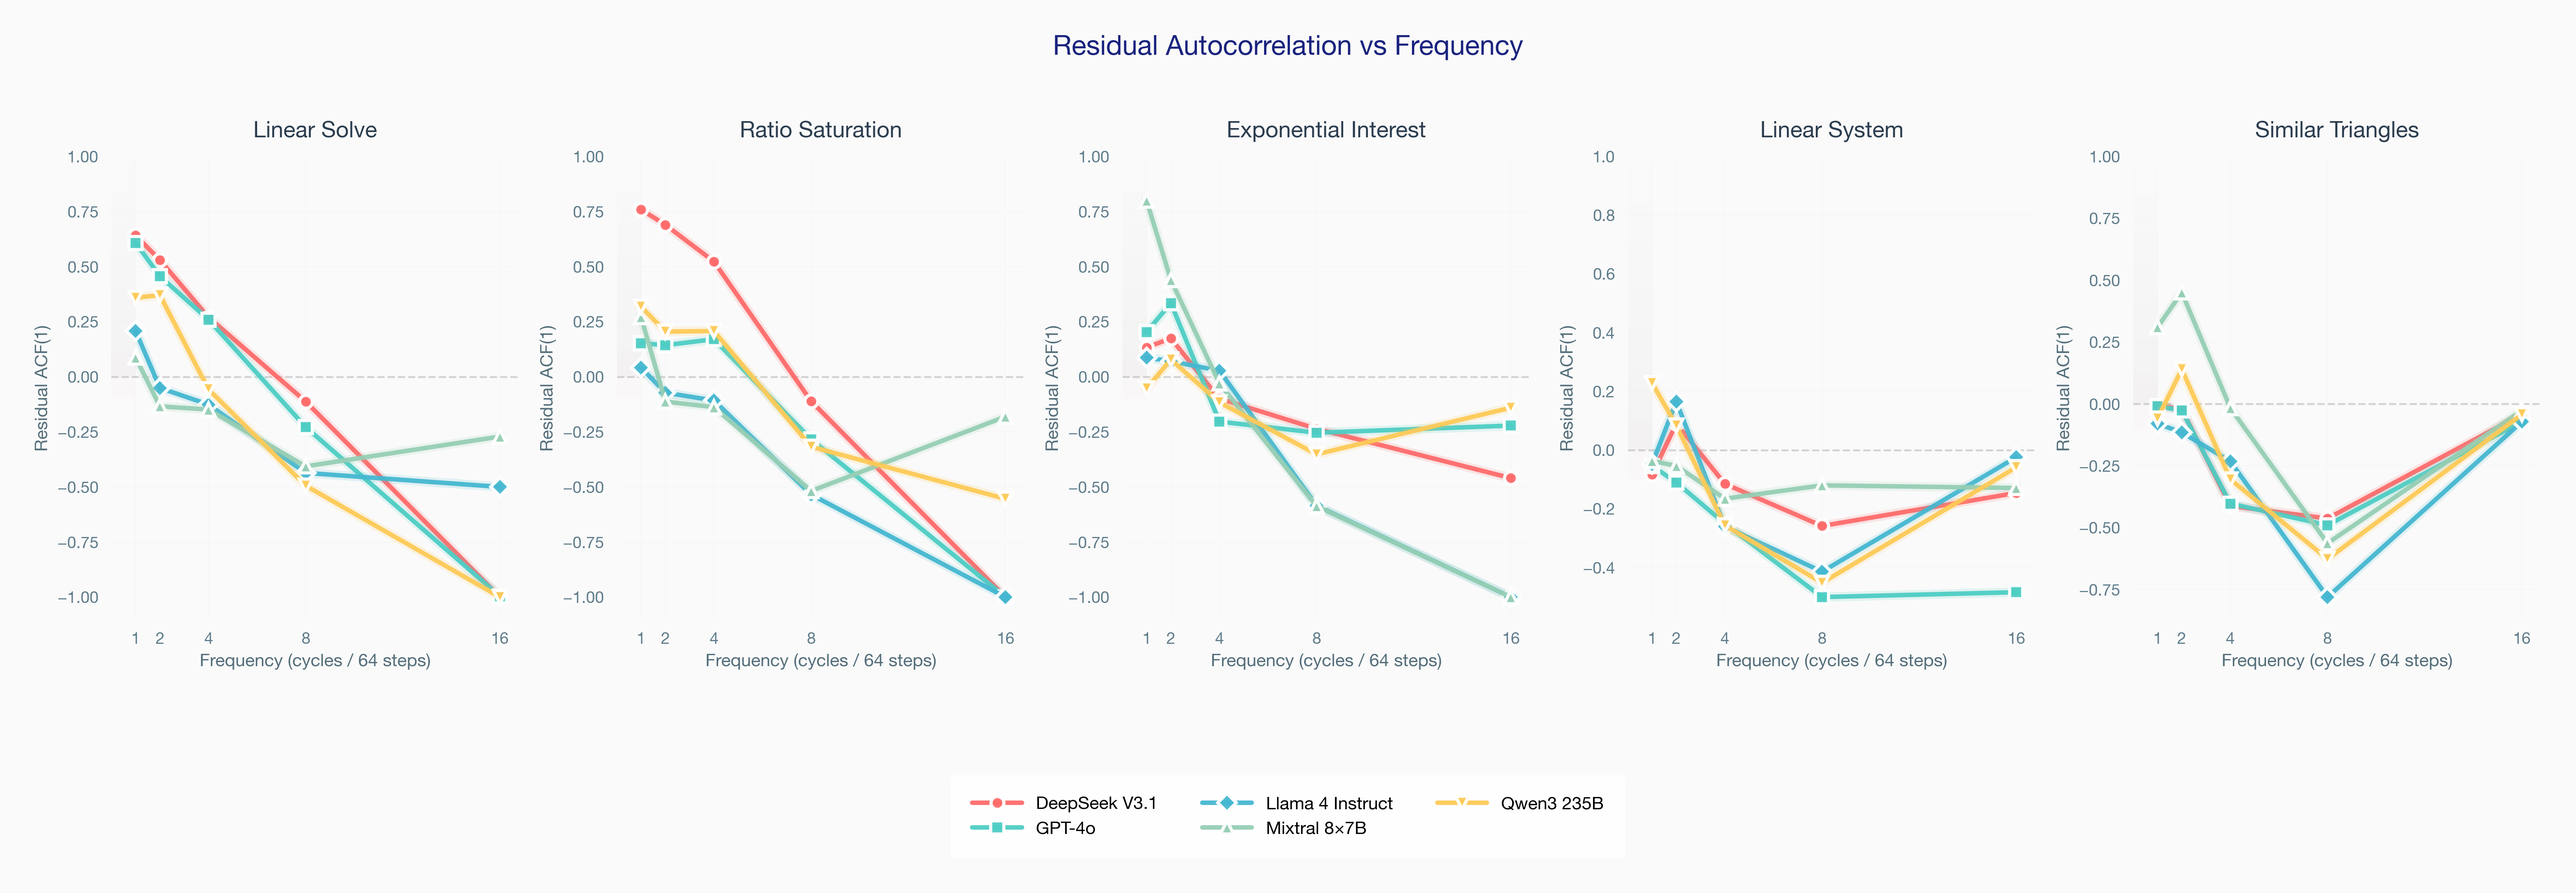
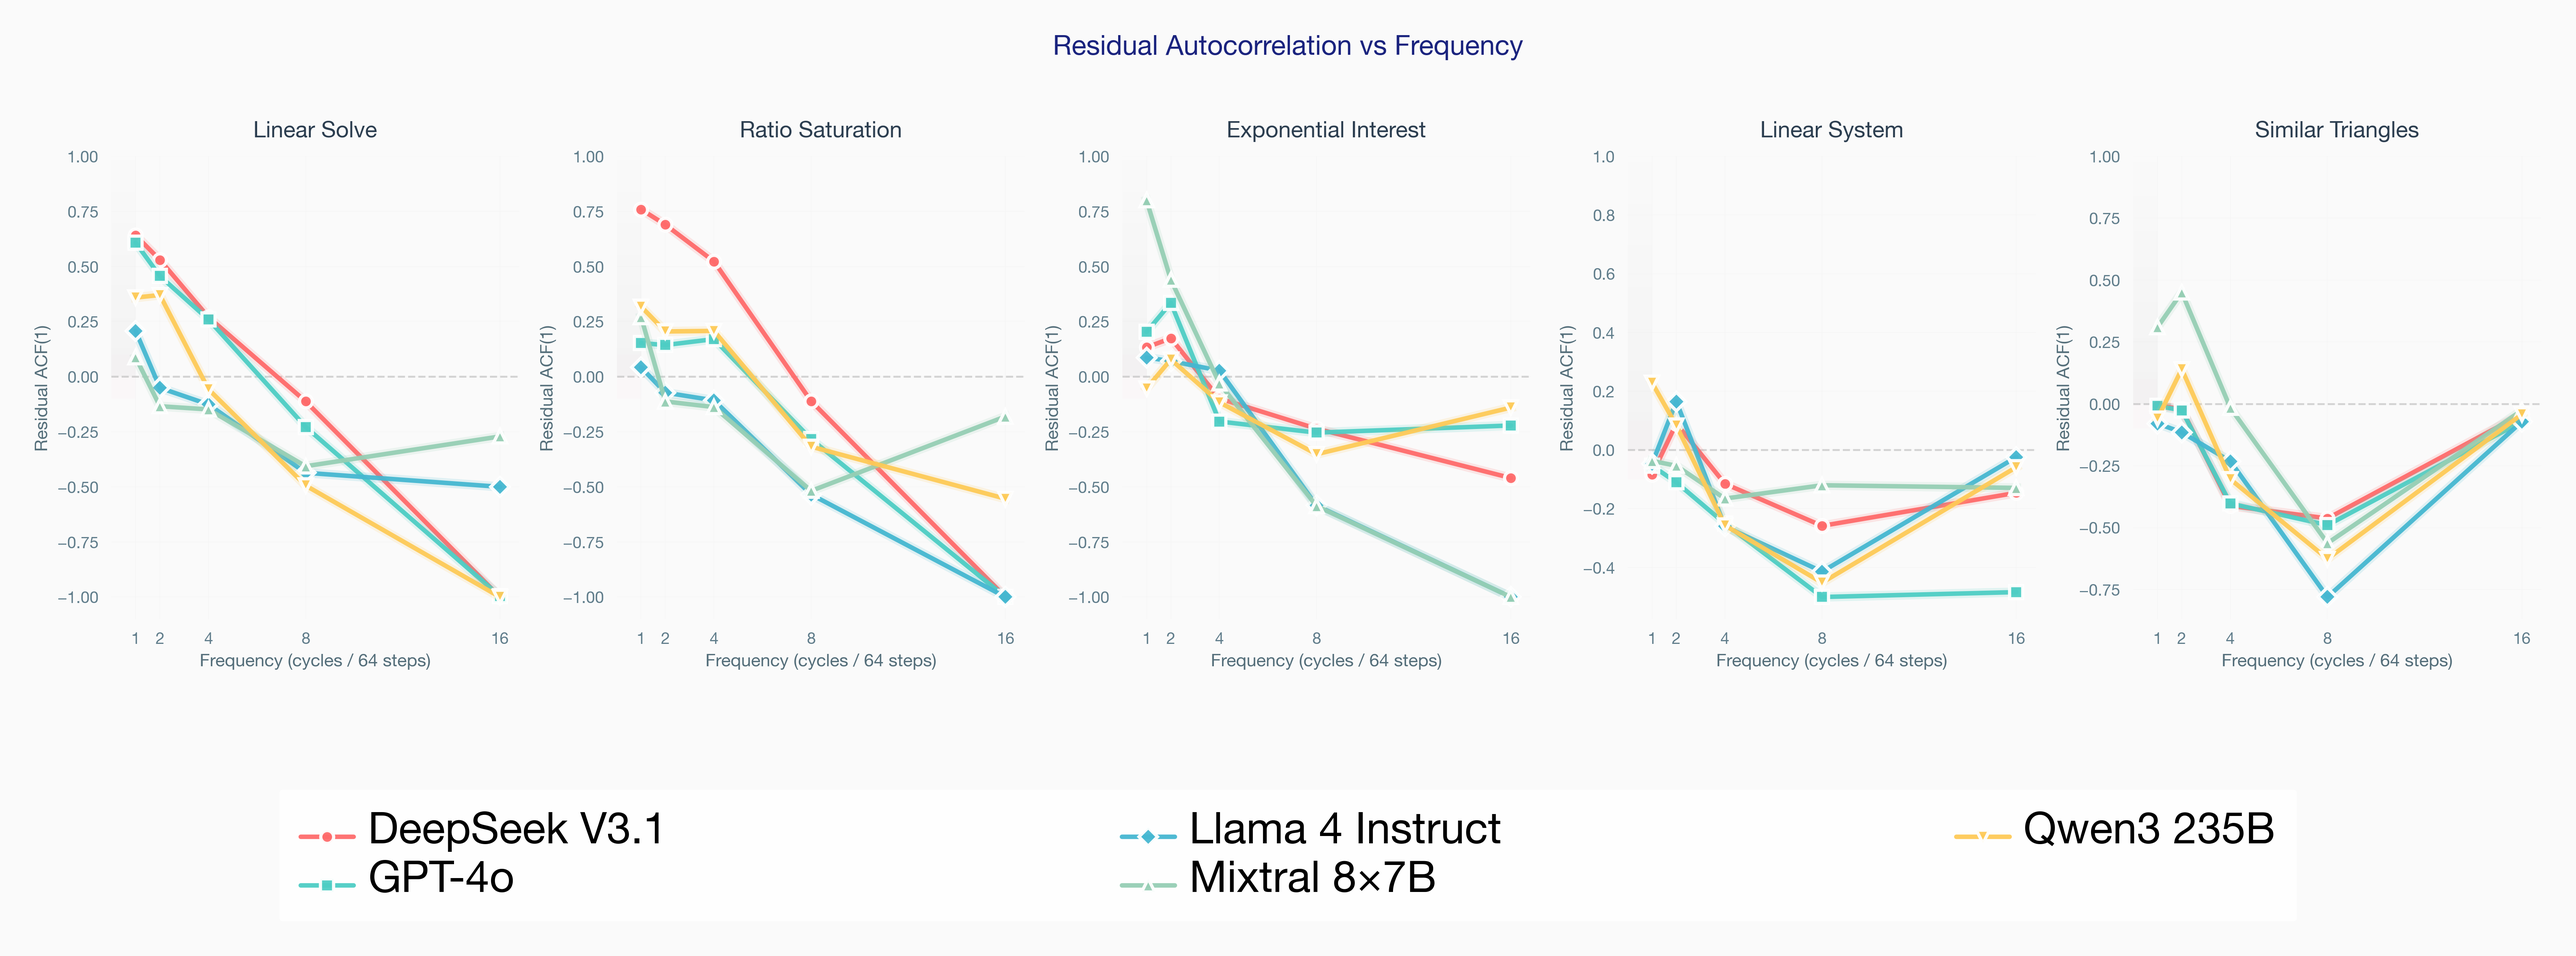
plot font size

diff --git a/mathbode/plot_panels.py b/mathbode/plot_panels.py
@@ -79,19 +79,22 @@ MARKER_EDGE_COLOR = "white"
 
 # Enhanced legend styling with gradient background
 LEGEND_KW = dict(
+    # Keep it centered, but give it an 80% wide anchor box:
+    # (left=0.10, y=-0.14, width=0.80, height ignored)
     loc="upper center",
-    bbox_to_anchor=(0.5, -0.12),
+    bbox_to_anchor=(0.10, -0.14, 0.80, 0.0),
+    mode="expand",          # spread entries to fill the anchor box width
     ncol=3,
     frameon=True,
     fancybox=True,
     shadow=False,
     borderpad=1.2,
-    columnspacing=2.5,
-    handlelength=2.8,
+    columnspacing=2.8,
+    handlelength=3.0,
     facecolor="white",
     edgecolor="none",
     framealpha=1.0,
-    borderaxespad=0.5,
+    borderaxespad=0.6,
 )
 
 # Gradient background colors
@@ -252,7 +255,7 @@ def _create_premium_legend(fig, handles, labels):
     # Style the legend text
     for text in legend.get_texts():
         text.set_fontweight(500)
-        text.set_fontsize(11)
+        text.set_fontsize(27)
     
     # Add subtle shadow to legend box
     legend.get_frame().set_linewidth(0)
